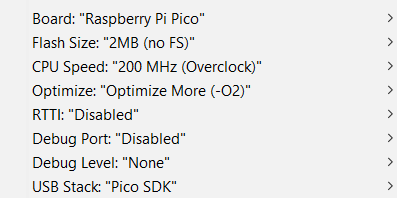
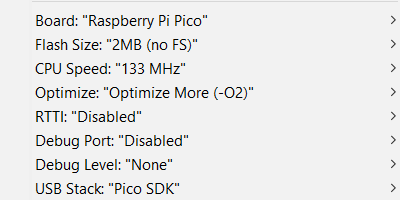
Added TODO and updated settings

diff --git a/definitions.h b/definitions.h
@@ -31,7 +31,7 @@
 
 
 //PWM Quanta  lower this for less colors and higher performance
-#define PWM_SIZE 10
+#define PWM_SIZE 20
 
 struct Image {
 const unsigned char numFrames;
